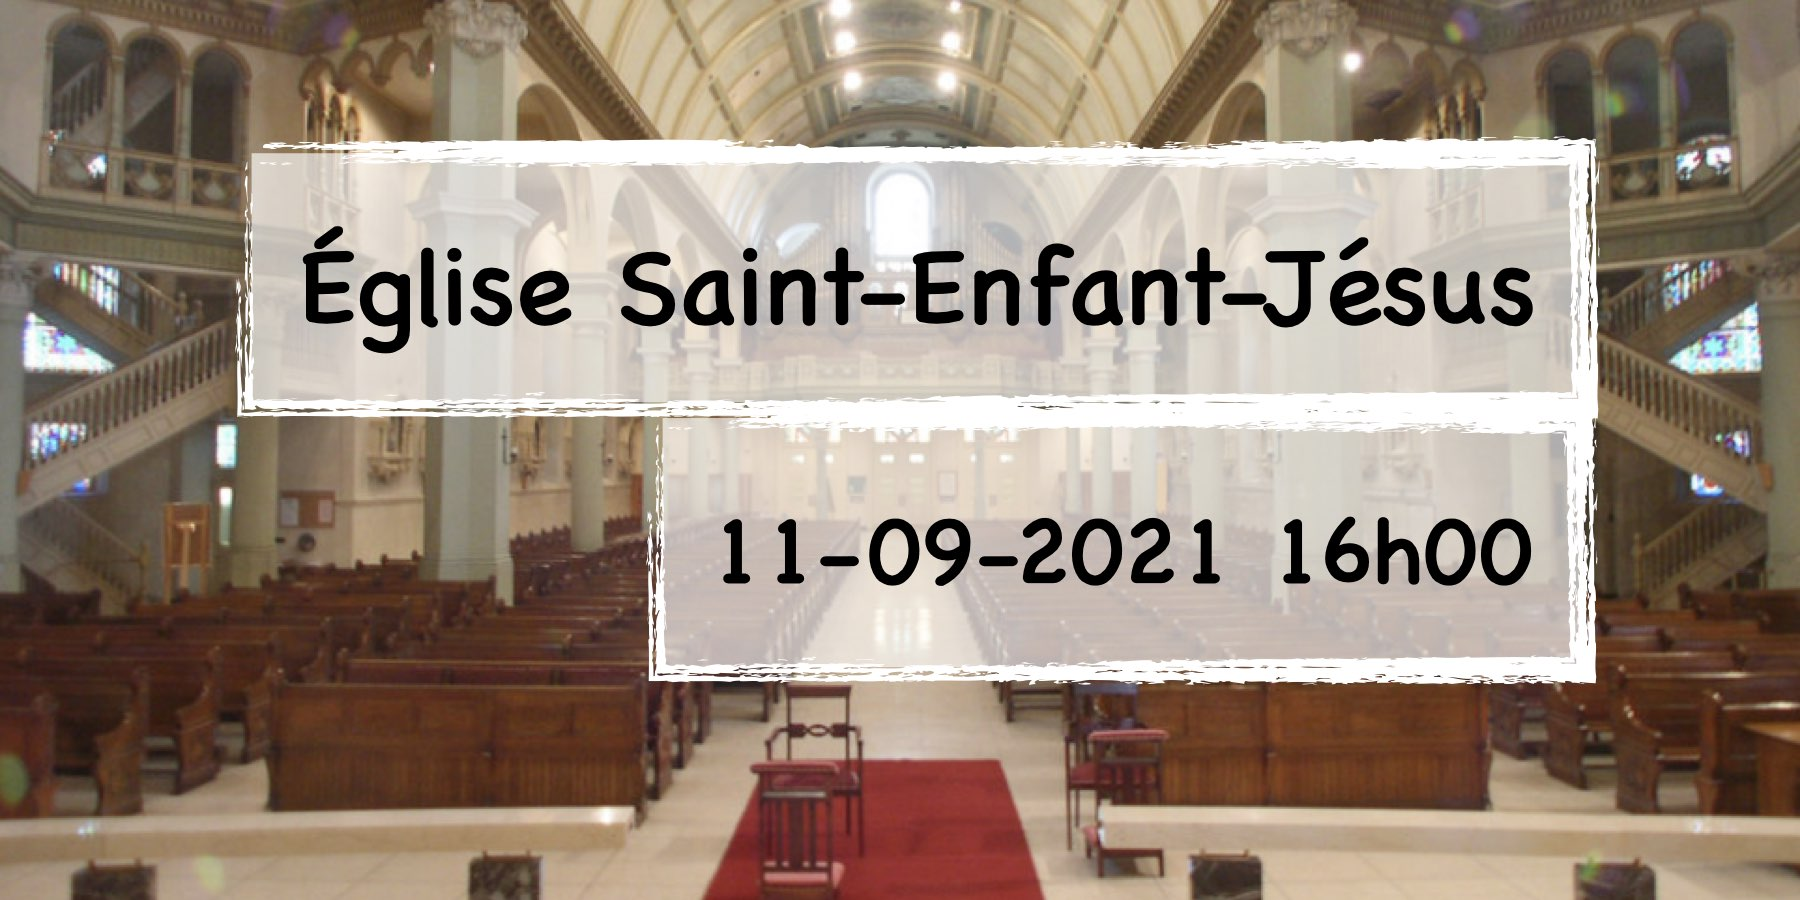
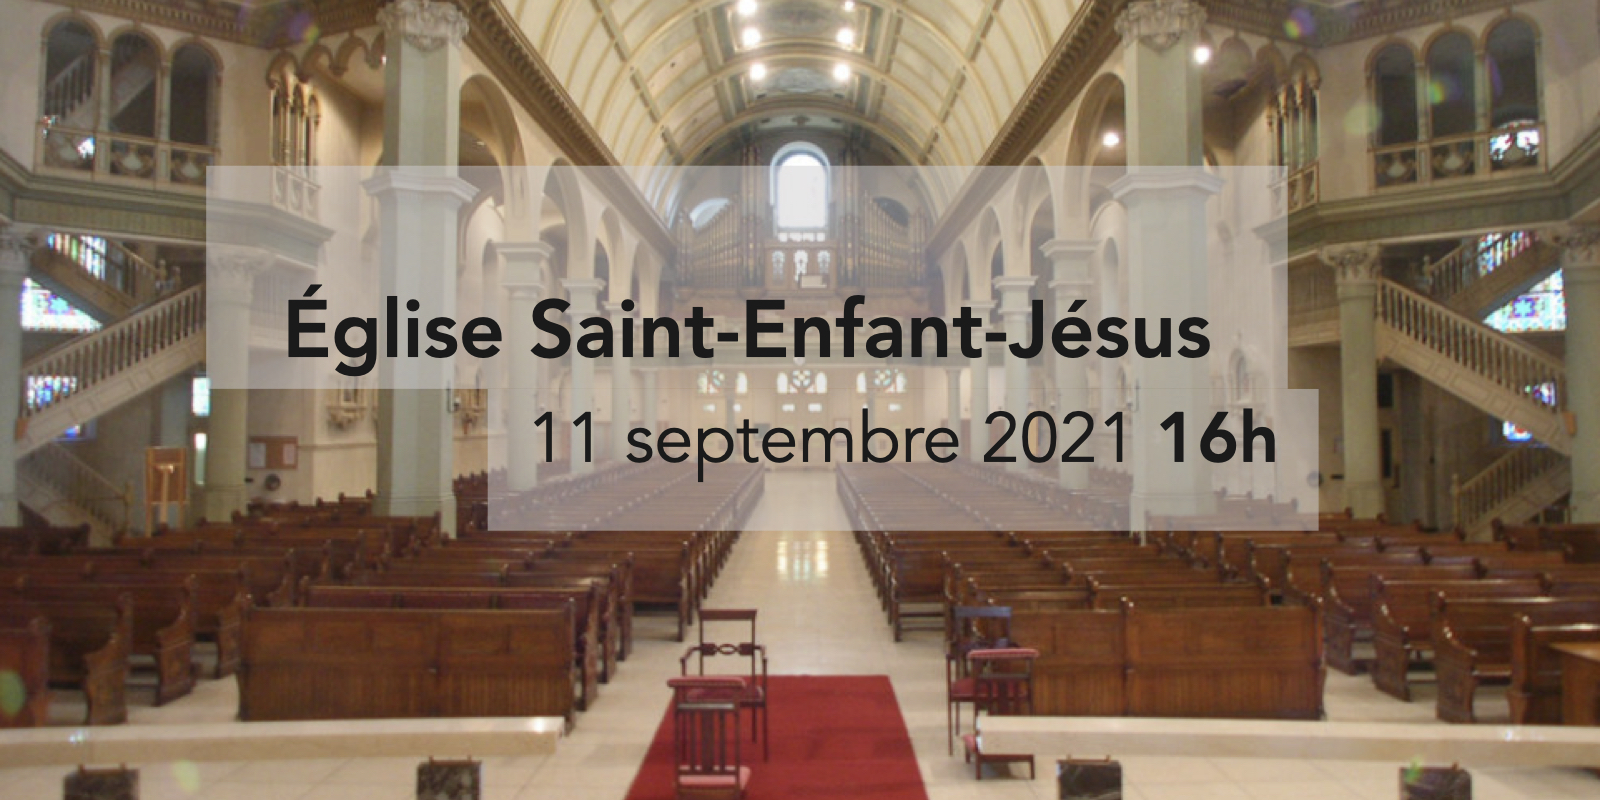
changed photos

diff --git a/content/post/projet1.md b/content/post/projet1.md
@@ -8,11 +8,13 @@ description: "Musique en solo de J.S. Bach , Campagnoli et en duo de Nebdal et H
 categories: ["projet_2021", "concert"]
 image: "img/project1.jpg"
 ---
-Musique en solo de J.S. Bach, Corigliano et Campagnoli par Sebastian Ginzalez Mora  à l'alto et de Chloé Dumoulin au piano. Retrouvez-les ensuite en duo pour des oeuvres de Nebdal, Scriabin et Hindemith dans la magnifique [Église Saint-Enfant-Jésus du Mile-End](https://www.diocesemontreal.org/fr/vie-communautaire/eglises-paroisses/saint-enfant-jesus-montreal).
+Musique en solo de J.S. Bach et Campagnoli par Sebastian Gonzalez Mora  à l'alto et de Corigliano, Scriabin et Bach-Rachmaninov par Chloé Dumoulin au piano. Retrouvez-les ensuite en duo pour des oeuvres de Nebdal, Scriabin et Hindemith dans la magnifique [Église Saint-Enfant-Jésus du Mile-End](https://www.diocesemontreal.org/fr/vie-communautaire/eglises-paroisses/saint-enfant-jesus-montreal).
 
 
 ## Endroit
 [Église Saint-Enfant-Jésus du Mile-End](https://www.diocesemontreal.org/fr/vie-communautaire/eglises-paroisses/saint-enfant-jesus-montreal). 5039 Rue Saint-Dominique, Montréal, QC H2T 1V1
+
+## Heure de début: 16h00
 
 # Programme 
 

diff --git a/content/post/projet2.md b/content/post/projet2.md
@@ -1,11 +1,14 @@
 ---
 author: "Leonardo"
 date: 2020-07-11
-linktitle: Récital de musique de chambre - Isabelle Bouchard (violon) & Chloé Dumoulin (Piano) 
-title: Recital de musique de chambre - Isabelle Bouchard (violon) & Chloé Dumoulin (Piano) 
+linktitle: recital-07-11-2021  
+title: recital-07-11-2021
 draft: false
 description: "Concert d'après-midi dans la salle Joseph-Rouleau des Jeunesses Musicales du Canada."
 categories: ["projet_2021", "concert"]
 image: "img/project2.jpg"
 ---
-# Programme à venir ... 
+
+## Récital de musique de chambre - Isabelle Bouchard (violon) & Chloé Dumoulin (Piano)
+
+## Programme à venir ... 
